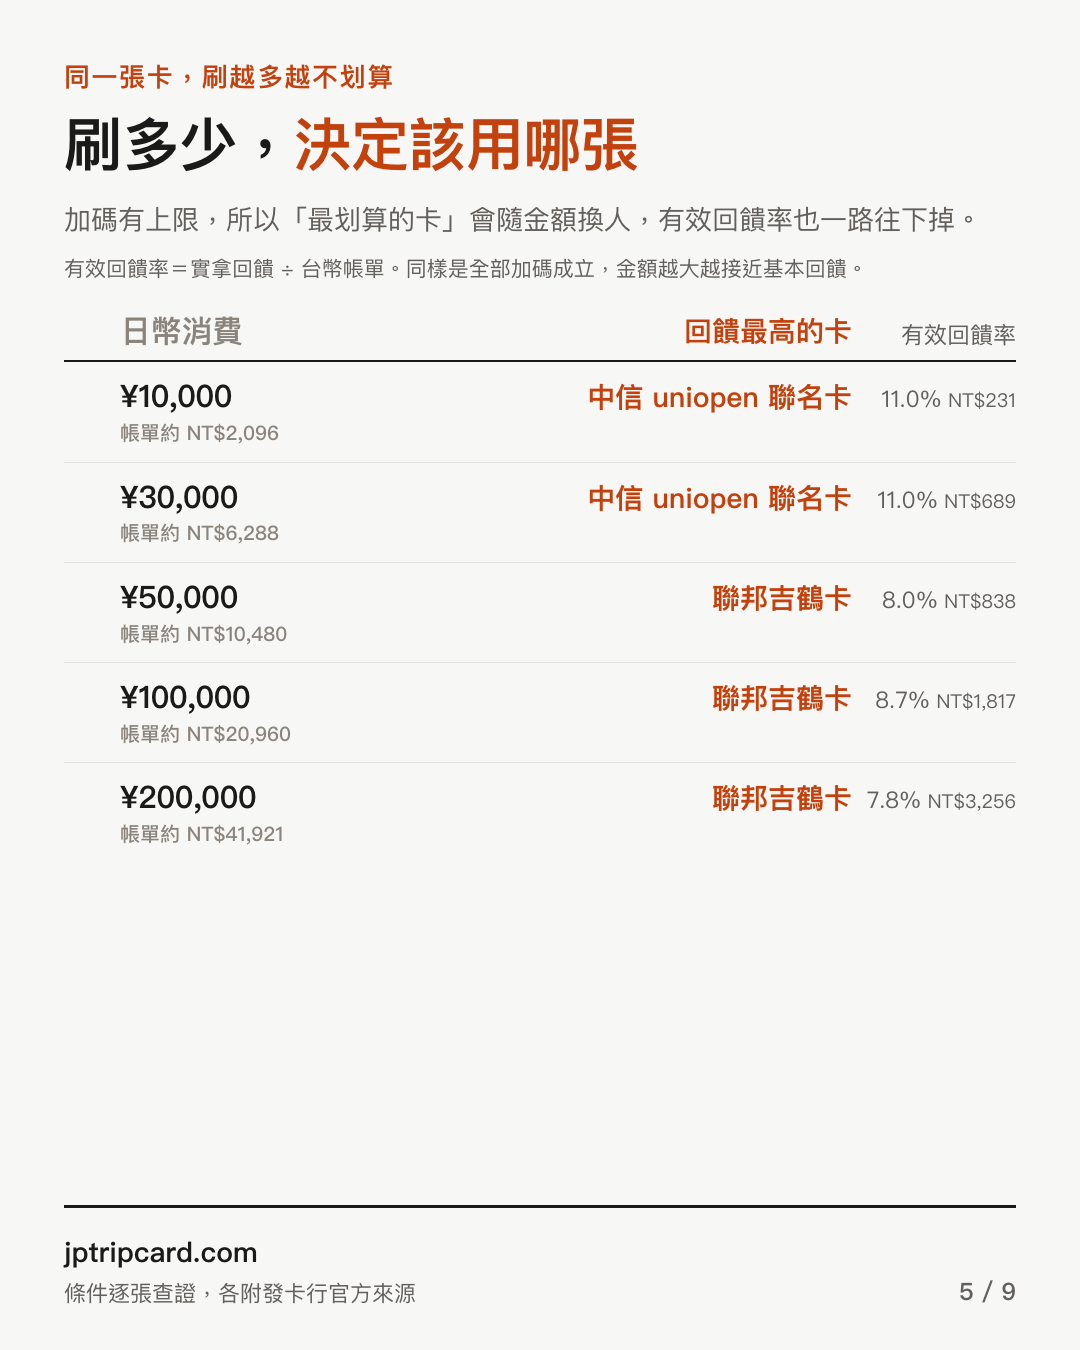
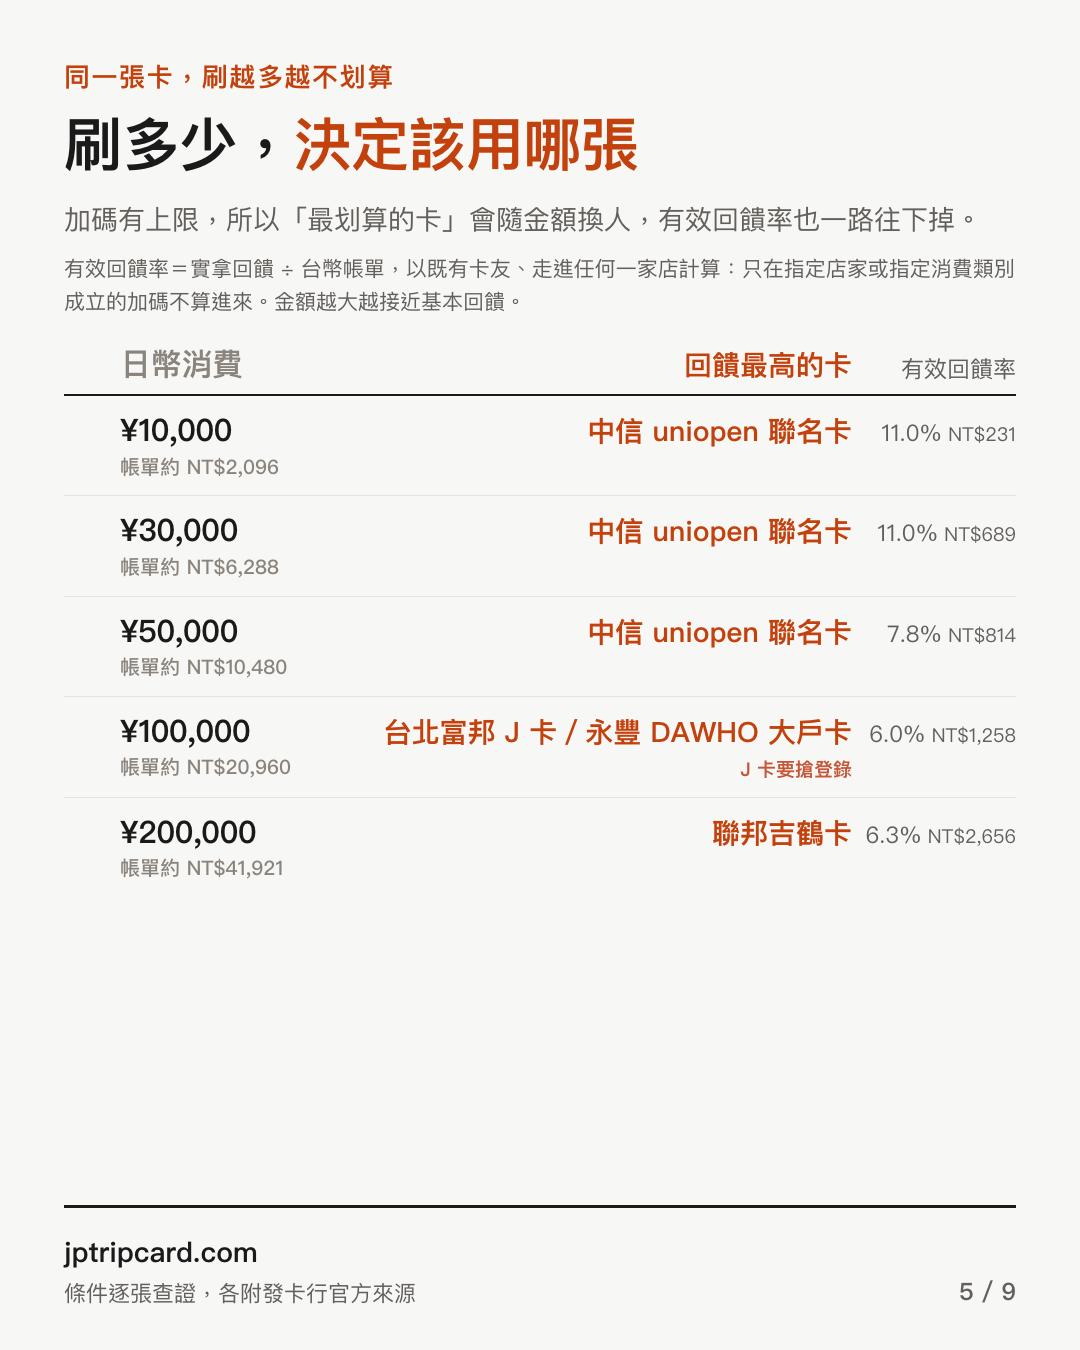
旅日信用卡第 5 張圖卡「刷多少決定該用哪張」改成走進任何一家店的算法
原本用 back() 把吉鶴「11 大人氣通路」3% 算進第一名（¥5 萬～20 萬都是吉鶴 8.0／8.7／7.8%），
和第 2、3 張「挑店家的加碼不算」互相矛盾。改用 plain_back：¥5 萬 uniopen 7.8%、
¥10 萬 J 卡／DAWHO 並列 6.0%、¥20 萬吉鶴 6.3%。並列時「要搶登錄」標出是哪一張。

diff --git a/make_creditcard_cards.py b/make_creditcard_cards.py
@@ -244,8 +244,8 @@ def build(CD, mid, fee, rate_note):
         b = 0 if any(t.get('no_base') for t in ts) else c['base']
         return round(b + sum(t['rate'] for t in ts), 2)
 
-    def plain_back(c):
-        b = bill(DEMO_JPY)
+    def plain_back(c, jpy=DEMO_JPY):
+        b = bill(jpy)
         ts = plain_ts(c)
         v = 0 if any(t.get('no_base') for t in ts) else c['base'] / 100 * b
         capped = False
@@ -379,9 +379,13 @@ def build(CD, mid, fee, rate_note):
     # ── 5 刷多少決定用哪張 ──
     rows = ('<div class="hd"><div class="num"></div><div class="nm">日幣消費</div>'
             '<div class="c2">回饋最高的卡</div><div class="c3">有效回饋率</div></div>')
+    # 2026-11-22 改用 plain_back：原本用 back() 會把挑店家的層（吉鶴「11 大人氣
+    # 通路」3%）算進去，第一名變成只有在那 11 家刷才成立的數字，和第 2、3 張
+    # 「挑店家的加碼不算」的排法互相矛盾。同額並列的卡一起列出。
     for y in LADDER:
-        best = max(cards, key=lambda c: back(c, y, 'shop', False)[0])
-        v = back(best, y, 'shop', False)[0]
+        v = max(plain_back(c, y)[0] for c in cards)
+        tops = [c for c in cards if round(plain_back(c, y)[0]) == round(v)]
+        best = tops[0]
         b = bill(y)
         # 第一名常常帶條件，不標出來會看起來像人人有獎。
         # 「含新戶加碼」這個標籤拿掉了，因為這一張現在整個以既有卡友計算。
@@ -390,11 +394,14 @@ def build(CD, mid, fee, rate_note):
         # 第 6 張標的就是「只有◯◯那層」。這一張算的是日幣實體消費，
         # 吉鶴要搶的是交通卡儲值，不在這個數字裡面，標上去會讓人以為
         # 那 11% 也要去搶登錄。
-        if best.get('reg_level') == 'race' and not best.get('reg_monthly'):
-            tag.append('要搶登錄')
+        _race = [c for c in tops if c.get('reg_level') == 'race' and not c.get('reg_monthly')]
+        if _race:
+            # 並列時要講清楚是哪一張要搶，不然像兩張都要
+            tag.append('要搶登錄' if len(tops) == 1 else
+                       '、'.join(re.sub(r'^\S+\s+', '', c['name']) for c in _race) + '要搶登錄')
         rows += ('<div class="row"><div class="num"></div>'
                  f'<div class="nm">¥{y:,}<s>帳單約 NT${b:,.0f}</s></div>'
-                 f'<div class="c2" style="flex-basis:330px">{E(best["name"])}'
+                 f'<div class="c2" style="flex-basis:330px">{"／".join(E(c["name"]) for c in tops)}'
                  + (f'<s class="warn">{E("、".join(tag))}</s>' if tag else '')
                  + '</div>'
                  f'<div class="c3">{v / b * 100:.1f}%<small> NT${v:,.0f}</small></div></div>')
@@ -402,8 +409,9 @@ def build(CD, mid, fee, rate_note):
              '<h1>刷多少，<em>決定該用哪張</em></h1>'
              '<div class="sub">加碼有上限，所以「最划算的卡」會隨金額換人，'
              '有效回饋率也一路往下掉。</div>'
-             '<div class="legend">有效回饋率＝實拿回饋 ÷ 台幣帳單。'
-             '同樣是全部加碼成立，金額越大越接近基本回饋。</div>'
+             '<div class="legend">有效回饋率＝實拿回饋 ÷ 台幣帳單，以既有卡友、'
+             '走進任何一家店計算：只在指定店家或指定消費類別成立的加碼不算進來。'
+             '金額越大越接近基本回饋。</div>'
              f'<div class="list">{rows}</div>' + foot(5, n))
     out.append(('jp-card-05.png', page(inner)))
 
